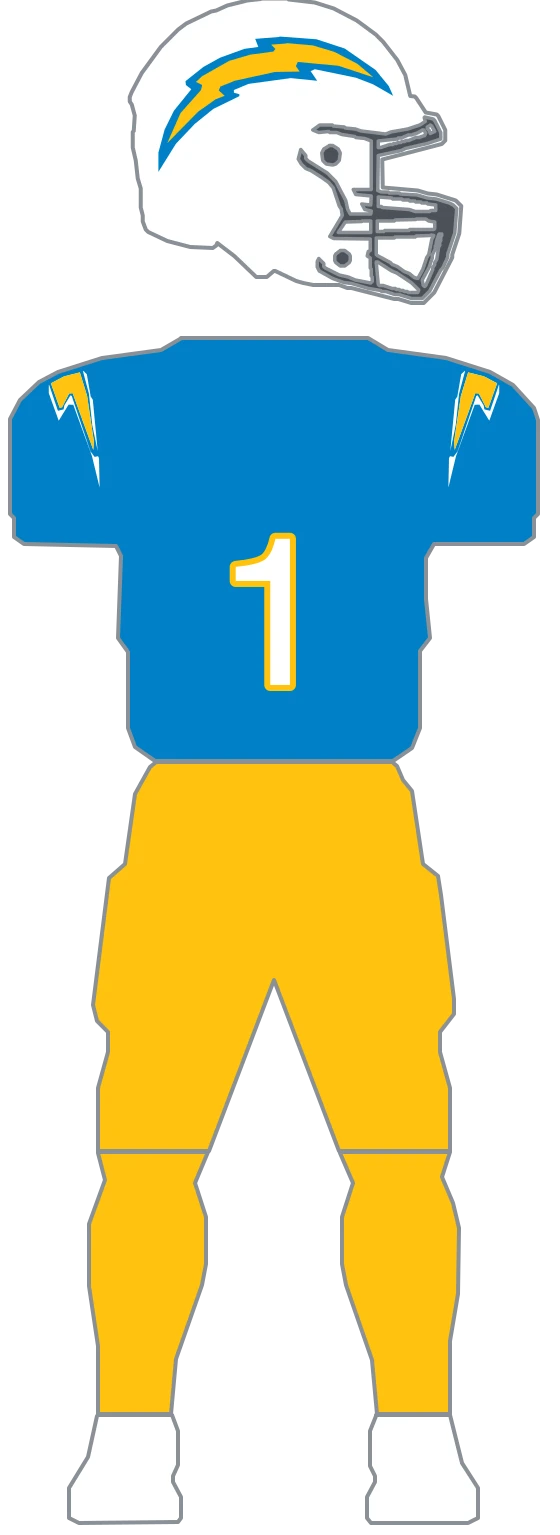
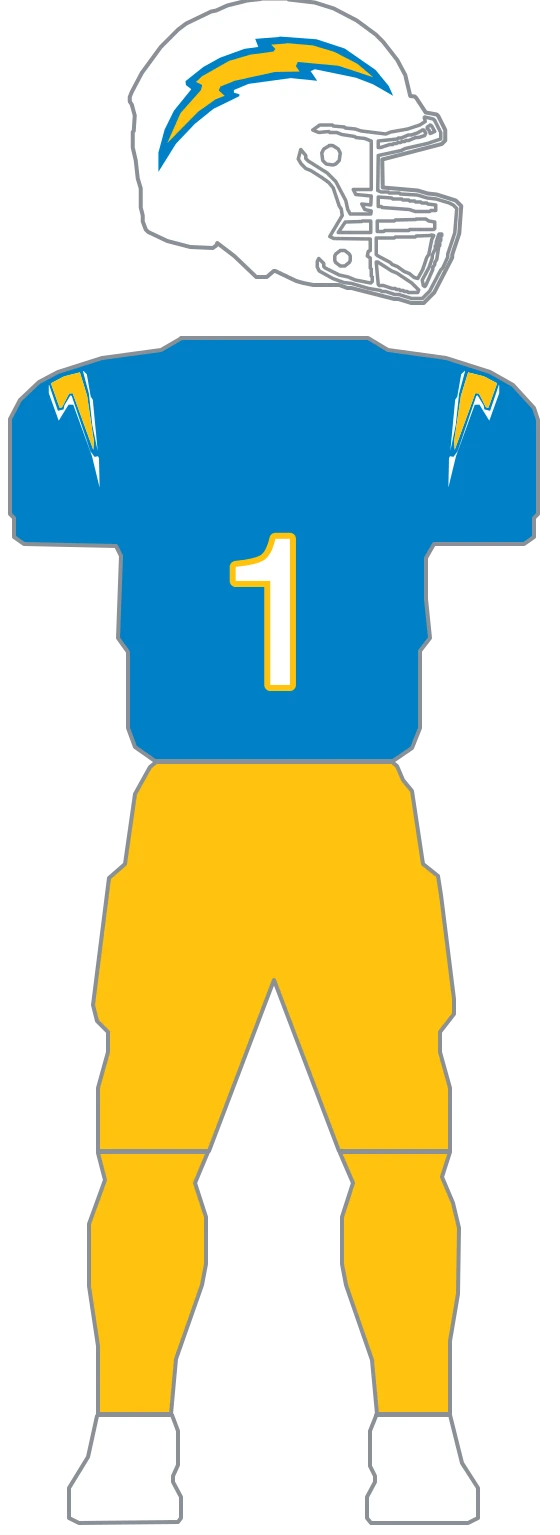
feat(uniforms): migrate Chargers to composable parts and set its white facemask (#691)
All three Chargers kits are ONE construction, and the whole uniform is two
marks: a lightning bolt on each shoulder cap and a much larger one on the
shell, each a solid gold body inside a contrasting keyline — no sleeve stripe,
no collar trim, no pant stripe. The three kits combine one helmet (the white
shell), two jerseys (powder-blue shared by home + powder-blue, white for
away), and one pair of gold pants. Parts express that: 1 helmet, 2 jerseys, 1
pants, matching the measured target.

NOTE SURFACED: home and powder-blue render IDENTICALLY — both store primary
#0080C6 over gold with only the accent differing, and the 2025 reference
draws exactly one powder-blue jersey. The spec's measured table lists this as
a known pixel-identical pair; the two kits share the J1 part, and
differentiating them is a data decision left to the accuracy pass, not a
definition fix.

The migration's parity gate proved all 9 chargers rasters (3 kits x 2
variants) byte-identical against the flat definition, then the flat definition
and its builder helpers were deleted and the team removed from MIGRATED, per
the one-time-proof lifecycle (depth#660).

Facemask follows the parts migration per phase order: the white shell wears
the SF2BD-SW-SP white mask (named sources). Only the three -full rasters
move, each change confined to its helmet region.

Changed region(s): [[0.5768, 0.0612, 0.8196, 0.1837], [0.5464, 0.0919, 0.6071, 0.1225], [0.7286, 0.1837, 0.7589, 0.2143]]

diff --git a/lib/uniforms/teams/chargers.ts b/lib/uniforms/teams/chargers.ts
@@ -1,27 +1,11 @@
-import type { ColorRef, TeamUniformDefinition, UniformLayer } from './types';
-
-// Los Angeles' three archived kits, redrawn from the Gridiron Uniform Database 2025 composite in
-// nfl-uniform-refs/chargers (home is that sheet's row-1 figure 1, away its row-2 figure 1). Sleeve
-// paths use the outer 588-wide mannequin space; helmet paths stay in raw helmet coordinates
-// (x:139-802, y:65-674). Right paths mirror the left across x=294 (mirroredX = 588 - x).
+// Los Angeles' construction geometry — the bolt paths and the white construction literal only. The
+// composable parts definition that consumes them lives in ./chargers.parts.ts; the former flat
+// CHARGERS_UNIFORMS was deleted in the migration that proved parts render byte-identically (see
+// parts-parity.test.ts for the one-time gate).
 //
 // All three kits are ONE construction, and the whole uniform is two marks: a lightning bolt on each
 // shoulder cap and a much larger one on the shell, each a solid gold body inside a contrasting
-// keyline. No sleeve stripe, no collar trim, no pant stripe — the pants sample as unbroken gold on
-// both the home and away figures, and the bolt-patterned bars beside each figure are the sock
-// legend, not the pant.
-//
-// WHY `home` AND `powder-blue` RENDER IDENTICALLY, and why that is correct. Both rows store primary
-// #0080C6 over secondary #FFC20E; they differ only in accent (gold on home, white on powder-blue).
-// That is not a bug in this module — the 2025 reference draws exactly one powder-blue jersey, so
-// the two rows genuinely describe the same uniform. The definition leans into it: the construction
-// is shared, and the only difference is that `home` reaches white through a literal where
-// `powder-blue` reaches it through `accent`. If these should ever be two distinct looks, the
-// reference offers two candidates with no kit of their own — a gold jersey (row-3 figures 1-2) and
-// a navy one (row-3 figures 5-6). That is a data decision, not a definition fix.
-//
-// Out of scope on every kit: the chest wordmark, the league shield, the "BOLT UP" collar tab, and
-// the numerals GUD draws on the shell.
+// keyline. No sleeve stripe, no collar trim, no pant stripe.
 
 // White is a literal on the home kit only. Its palette is powder blue over gold with accent ===
 // secondary (ESPN supplies only two colors), so nothing resolves to the shell, the sleeve bolt's
@@ -31,13 +15,8 @@ export const CHARGERS_WHITE = '#FFFFFF';
 
 // Both marks are traced the same way and for the same reason: the keyline is traced as the union of
 // keyline AND body, with the body painted over it, so the outline stays continuous instead of
-// breaking into slivers. One wrinkle worth recording — on the shell the two colors do NOT touch.
-// An antialiased seam runs between them that matches neither predicate, so the union is two
-// disjoint components rather than one, and taking "the largest component" silently returns the gold
-// body alone and drops the keyline entirely. Both components are kept instead, filtered by size:
-// that also drops the blue numerals GUD paints on the shell, which are the same blue as the keyline
-// and would otherwise be traced as part of it. Traced from the sleeve at the mannequin's own scale
-// and from the helmet bbox (x 54-160, y 40-139 in the reference) at ~6.2x.
+// breaking into slivers. On the shell the two colors do NOT touch (an antialiased seam between
+// them) so the union is two disjoint components filtered by size.
 export const CHARGERS_BOLT_KEYLINE_LEFT =
   'M103.2,415.8 L106.8,419.2 L110.7,441.6 L112.8,444.7 L117.7,496.1 L112.3,470.3 L108.9,438.5 L102.9,416.0 Z M99.8,417.2 L107.1,440.9 L113.8,486.0 L113.3,494.9 L92.7,438.2 L89.1,438.5 L82.1,452.2 L79.7,452.9 L70.9,428.3 L84.2,421.3 L99.5,417.5 Z M69.1,429.8 L77.9,455.8 L83.6,454.4 L84.4,450.3 L90.4,440.4 L91.7,440.9 L110.4,496.3 L114.6,501.9 L118.0,501.2 L119.0,503.1 L119.6,532.5 L112.0,501.2 L93.3,449.8 L88.6,449.6 L78.7,465.7 L68.8,438.2 L68.8,430.0 Z';
 export const CHARGERS_BOLT_KEYLINE_RIGHT =
@@ -50,87 +29,3 @@ export const CHARGERS_DECAL_KEYLINE_PATH =
   'M438.7,141.1 L512.3,146.5 L568.8,165.0 L630.8,208.0 L657.1,240.3 L665.7,259.6 L625.4,236.5 L591.3,223.4 L509.2,206.5 L500.7,210.3 L513.9,229.6 L461.2,224.2 L376.8,235.7 L347.3,248.0 L347.3,253.4 L358.2,256.5 L358.2,260.3 L306.3,285.7 L269.1,315.7 L231.2,355.7 L196.3,411.8 L196.3,373.4 L208.7,327.2 L227.3,289.5 L262.1,246.5 L251.3,238.0 L250.5,230.3 L286.2,201.9 L319.5,183.4 L368.3,165.7 L396.1,161.9 L389.9,145.7 L438.0,141.9 Z M452.7,154.2 L505.3,158.8 L548.7,171.9 L594.4,195.7 L626.2,222.6 L556.5,199.6 L475.1,191.9 L471.3,200.3 L479.0,211.1 L429.4,211.9 L348.9,229.6 L320.2,241.1 L317.1,248.8 L328.8,259.6 L310.9,266.5 L276.1,291.1 L214.1,354.1 L240.5,294.2 L281.5,248.0 L283.8,238.0 L271.4,231.9 L283.8,220.3 L338.0,189.6 L379.9,177.3 L426.3,171.1 L430.2,165.7 L421.7,157.3 L451.9,155.0 Z';
 export const CHARGERS_DECAL_BOLT_PATH =
   'M452.7,154.2 L505.3,158.8 L548.7,171.9 L594.4,195.7 L626.2,222.6 L556.5,199.6 L475.1,191.9 L471.3,200.3 L479.0,211.1 L429.4,211.9 L348.9,229.6 L320.2,241.1 L317.1,248.8 L328.8,259.6 L310.9,266.5 L276.1,291.1 L214.1,354.1 L240.5,294.2 L281.5,248.0 L283.8,238.0 L271.4,231.9 L283.8,220.3 L338.0,189.6 L379.9,177.3 L426.3,171.1 L430.2,165.7 L421.7,157.3 L451.9,155.0 Z';
-
-const GENERIC_STRIPPED = [
-  'generic-helmet-stripe',
-  'generic-sleeve-yoke-left',
-  'generic-sleeve-yoke-right',
-  'generic-sleeve-stripe-left',
-  'generic-sleeve-stripe-right',
-  'generic-collar',
-  'generic-pants-stripe-left',
-  'generic-pants-stripe-right',
-];
-
-// Keyline first, body over it — the paint order every trimmed mark here uses.
-function bolts(keyline: ColorRef, body: ColorRef): UniformLayer[] {
-  const shapes: [string, 'sleeve-left' | 'sleeve-right' | 'helmet', string, ColorRef][] = [
-    ['chargers-bolt-keyline-left', 'sleeve-left', CHARGERS_BOLT_KEYLINE_LEFT, keyline],
-    ['chargers-bolt-keyline-right', 'sleeve-right', CHARGERS_BOLT_KEYLINE_RIGHT, keyline],
-    ['chargers-bolt-body-left', 'sleeve-left', CHARGERS_BOLT_BODY_LEFT, body],
-    ['chargers-bolt-body-right', 'sleeve-right', CHARGERS_BOLT_BODY_RIGHT, body],
-  ];
-  return shapes.map(([id, surface, d, fill]) => ({
-    id,
-    surface,
-    d,
-    clip: true,
-    kind: 'fill',
-    fill,
-  }));
-}
-
-function decal(keyline: ColorRef, body: ColorRef): UniformLayer[] {
-  return [
-    {
-      id: 'chargers-decal-keyline',
-      surface: 'helmet',
-      d: CHARGERS_DECAL_KEYLINE_PATH,
-      clip: true,
-      kind: 'fill',
-      fill: keyline,
-    },
-    {
-      id: 'chargers-decal-bolt',
-      surface: 'helmet',
-      d: CHARGERS_DECAL_BOLT_PATH,
-      clip: true,
-      kind: 'fill',
-      fill: body,
-    },
-  ];
-}
-
-export const CHARGERS_UNIFORMS: TeamUniformDefinition = {
-  teamId: 'chargers',
-  defaults: { removeLayerIds: GENERIC_STRIPPED },
-  kits: {
-    // Powder-blue body over gold pants under the white shell. Accent === secondary here, so gold is
-    // the only trim token available and white has none — the shell, the sleeve bolt's keyline and
-    // the numeral face all take the literal. On the shell the keyline is powder blue rather than
-    // white, which this palette does supply, as `primary`.
-    home: {
-      helmetColor: CHARGERS_WHITE,
-      pantsColor: 'secondary',
-      layers: [...bolts(CHARGERS_WHITE, 'secondary'), ...decal('primary', 'secondary')],
-      number: { fill: CHARGERS_WHITE, outline: 'secondary', outlineWidth: 12 },
-    },
-    // The same uniform as home, authored against a palette that carries white in `accent` — so
-    // every color resolves from a token and nothing here is a literal. See the note above on why
-    // these two kits render the same.
-    'powder-blue': {
-      helmetColor: 'accent',
-      pantsColor: 'secondary',
-      layers: [...bolts('accent', 'secondary'), ...decal('primary', 'secondary')],
-      number: { fill: 'accent', outline: 'secondary', outlineWidth: 12 },
-    },
-    // White body over gold pants under the white shell. The away palette moves white into primary,
-    // powder blue into secondary and gold into accent, so the shell needs no override and both
-    // bolts keyline in blue against a gold body — which is what the reference draws.
-    away: {
-      pantsColor: 'accent',
-      layers: [...bolts('secondary', 'accent'), ...decal('secondary', 'accent')],
-      number: { fill: 'secondary', outline: 'accent', outlineWidth: 12 },
-    },
-  },
-};

diff --git a/lib/uniforms/teams/chargers.parts.ts b/lib/uniforms/teams/chargers.parts.ts
@@ -1,0 +1,116 @@
+// Los Angeles authored as composable parts. Geometry is imported unchanged from chargers.ts — this
+// file only restates WHICH parts each kit combines, and names every color from the team palette
+// instead of the kit row's shifting primary/secondary/accent.
+//
+// All three kits are ONE construction, and the whole uniform is two marks: a lightning bolt on each
+// shoulder cap and a much larger one on the shell, each a solid gold body inside a contrasting
+// keyline. No sleeve stripe, no collar trim, no pant stripe. The three kits combine one helmet (the
+// white shell), two jerseys (powder-blue shared by home + powder-blue, white for away), and one pair
+// of gold pants.
+//
+// NOTE: home and powder-blue render IDENTICALLY by design — both rows store primary #0080C6 over
+// gold, differing only in accent — and the 2025 reference draws exactly one powder-blue jersey. The
+// spec flags this as a known pixel-identical pair to surface, not to silently collapse.
+
+import {
+  CHARGERS_BOLT_BODY_LEFT,
+  CHARGERS_BOLT_BODY_RIGHT,
+  CHARGERS_BOLT_KEYLINE_LEFT,
+  CHARGERS_BOLT_KEYLINE_RIGHT,
+  CHARGERS_DECAL_BOLT_PATH,
+  CHARGERS_DECAL_KEYLINE_PATH,
+} from './chargers';
+import { compileParts, type PartLayer, type TeamPartsDefinition, type UniformPart } from './parts';
+import type { UniformSurface } from './types';
+
+// Keyline first, body over it — the paint order every trimmed mark here uses.
+function bolts(keyline: string, body: string): PartLayer[] {
+  const shapes: [string, UniformSurface, string, string][] = [
+    ['chargers-bolt-keyline-left', 'sleeve-left', CHARGERS_BOLT_KEYLINE_LEFT, keyline],
+    ['chargers-bolt-keyline-right', 'sleeve-right', CHARGERS_BOLT_KEYLINE_RIGHT, keyline],
+    ['chargers-bolt-body-left', 'sleeve-left', CHARGERS_BOLT_BODY_LEFT, body],
+    ['chargers-bolt-body-right', 'sleeve-right', CHARGERS_BOLT_BODY_RIGHT, body],
+  ];
+  return shapes.map(([id, surface, d, fill]) => ({
+    id,
+    surface,
+    d,
+    clip: true,
+    kind: 'fill',
+    fill,
+  }));
+}
+
+// The shell's large bolt: white/blue keyline under the gold body.
+function decal(keyline: string, body: string): PartLayer[] {
+  return [
+    {
+      id: 'chargers-decal-keyline',
+      surface: 'helmet',
+      d: CHARGERS_DECAL_KEYLINE_PATH,
+      clip: true,
+      kind: 'fill',
+      fill: keyline,
+    },
+    {
+      id: 'chargers-decal-bolt',
+      surface: 'helmet',
+      d: CHARGERS_DECAL_BOLT_PATH,
+      clip: true,
+      kind: 'fill',
+      fill: body,
+    },
+  ];
+}
+
+// The white shell with the bolt — one object, shared by all three kits.
+//
+// White cage. The white Chargers shell wears a white facemask (named sources; white-on-white
+// matches the shell).
+const HELMET_WHITE: UniformPart = {
+  base: 'white',
+  facemask: 'white',
+  layers: decal('powderBlue', 'gold'),
+};
+
+// Powder-blue jersey (home + powder-blue): powder-blue body, white-keylined gold sleeve bolts,
+// white numerals keylined gold.
+const JERSEY_POWDER: UniformPart = {
+  base: 'powderBlue',
+  layers: bolts('white', 'gold'),
+  number: { fill: 'white', outline: 'gold', outlineWidth: 12 },
+};
+
+// Away jersey: white body, blue-keylined gold sleeve bolts, blue numerals keylined gold.
+const JERSEY_WHITE: UniformPart = {
+  base: 'white',
+  layers: bolts('powderBlue', 'gold'),
+  number: { fill: 'powderBlue', outline: 'gold', outlineWidth: 12 },
+};
+
+// Gold pants, shared by all three kits (the pants sample as unbroken gold on both figures).
+const PANTS_GOLD: UniformPart = { base: 'gold', layers: [] };
+
+export const CHARGERS_PARTS: TeamPartsDefinition = {
+  teamId: 'chargers',
+  // Jersey hexes from the curated rows (teamcolorcodes). Powder blue and gold are the physical body
+  // colors; white is the shell/numerals literal (no white token on the home row).
+  palette: {
+    powderBlue: '#0080C6',
+    gold: '#FFC20E',
+    white: '#FFFFFF',
+  },
+  helmets: { white: HELMET_WHITE },
+  jerseys: {
+    powder: JERSEY_POWDER,
+    white: JERSEY_WHITE,
+  },
+  pants: { gold: PANTS_GOLD },
+  kits: {
+    home: { helmet: 'white', jersey: 'powder', pants: 'gold' },
+    away: { helmet: 'white', jersey: 'white', pants: 'gold' },
+    'powder-blue': { helmet: 'white', jersey: 'powder', pants: 'gold' },
+  },
+};
+
+export const CHARGERS_UNIFORMS_FROM_PARTS = compileParts(CHARGERS_PARTS);

diff --git a/lib/uniforms/teams/index.ts b/lib/uniforms/teams/index.ts
@@ -6,7 +6,7 @@ import { BRONCOS_UNIFORMS_FROM_PARTS } from './broncos.parts';
 import { BROWNS_UNIFORMS_FROM_PARTS } from './browns.parts';
 import { BUCCANEERS_UNIFORMS_FROM_PARTS } from './buccaneers.parts';
 import { CARDINALS_UNIFORMS_FROM_PARTS } from './cardinals.parts';
-import { CHARGERS_UNIFORMS } from './chargers';
+import { CHARGERS_UNIFORMS_FROM_PARTS } from './chargers.parts';
 import { CHIEFS_UNIFORMS_FROM_PARTS } from './chiefs.parts';
 import { COLTS_UNIFORMS_FROM_PARTS } from './colts.parts';
 import { COMMANDERS_UNIFORMS } from './commanders';
@@ -45,7 +45,7 @@ const DEFINITIONS: Readonly<Partial<Record<string, TeamUniformDefinition>>> = {
   browns: BROWNS_UNIFORMS_FROM_PARTS,
   buccaneers: BUCCANEERS_UNIFORMS_FROM_PARTS,
   cardinals: CARDINALS_UNIFORMS_FROM_PARTS,
-  chargers: CHARGERS_UNIFORMS,
+  chargers: CHARGERS_UNIFORMS_FROM_PARTS,
   chiefs: CHIEFS_UNIFORMS_FROM_PARTS,
   colts: COLTS_UNIFORMS_FROM_PARTS,
   commanders: COMMANDERS_UNIFORMS,
